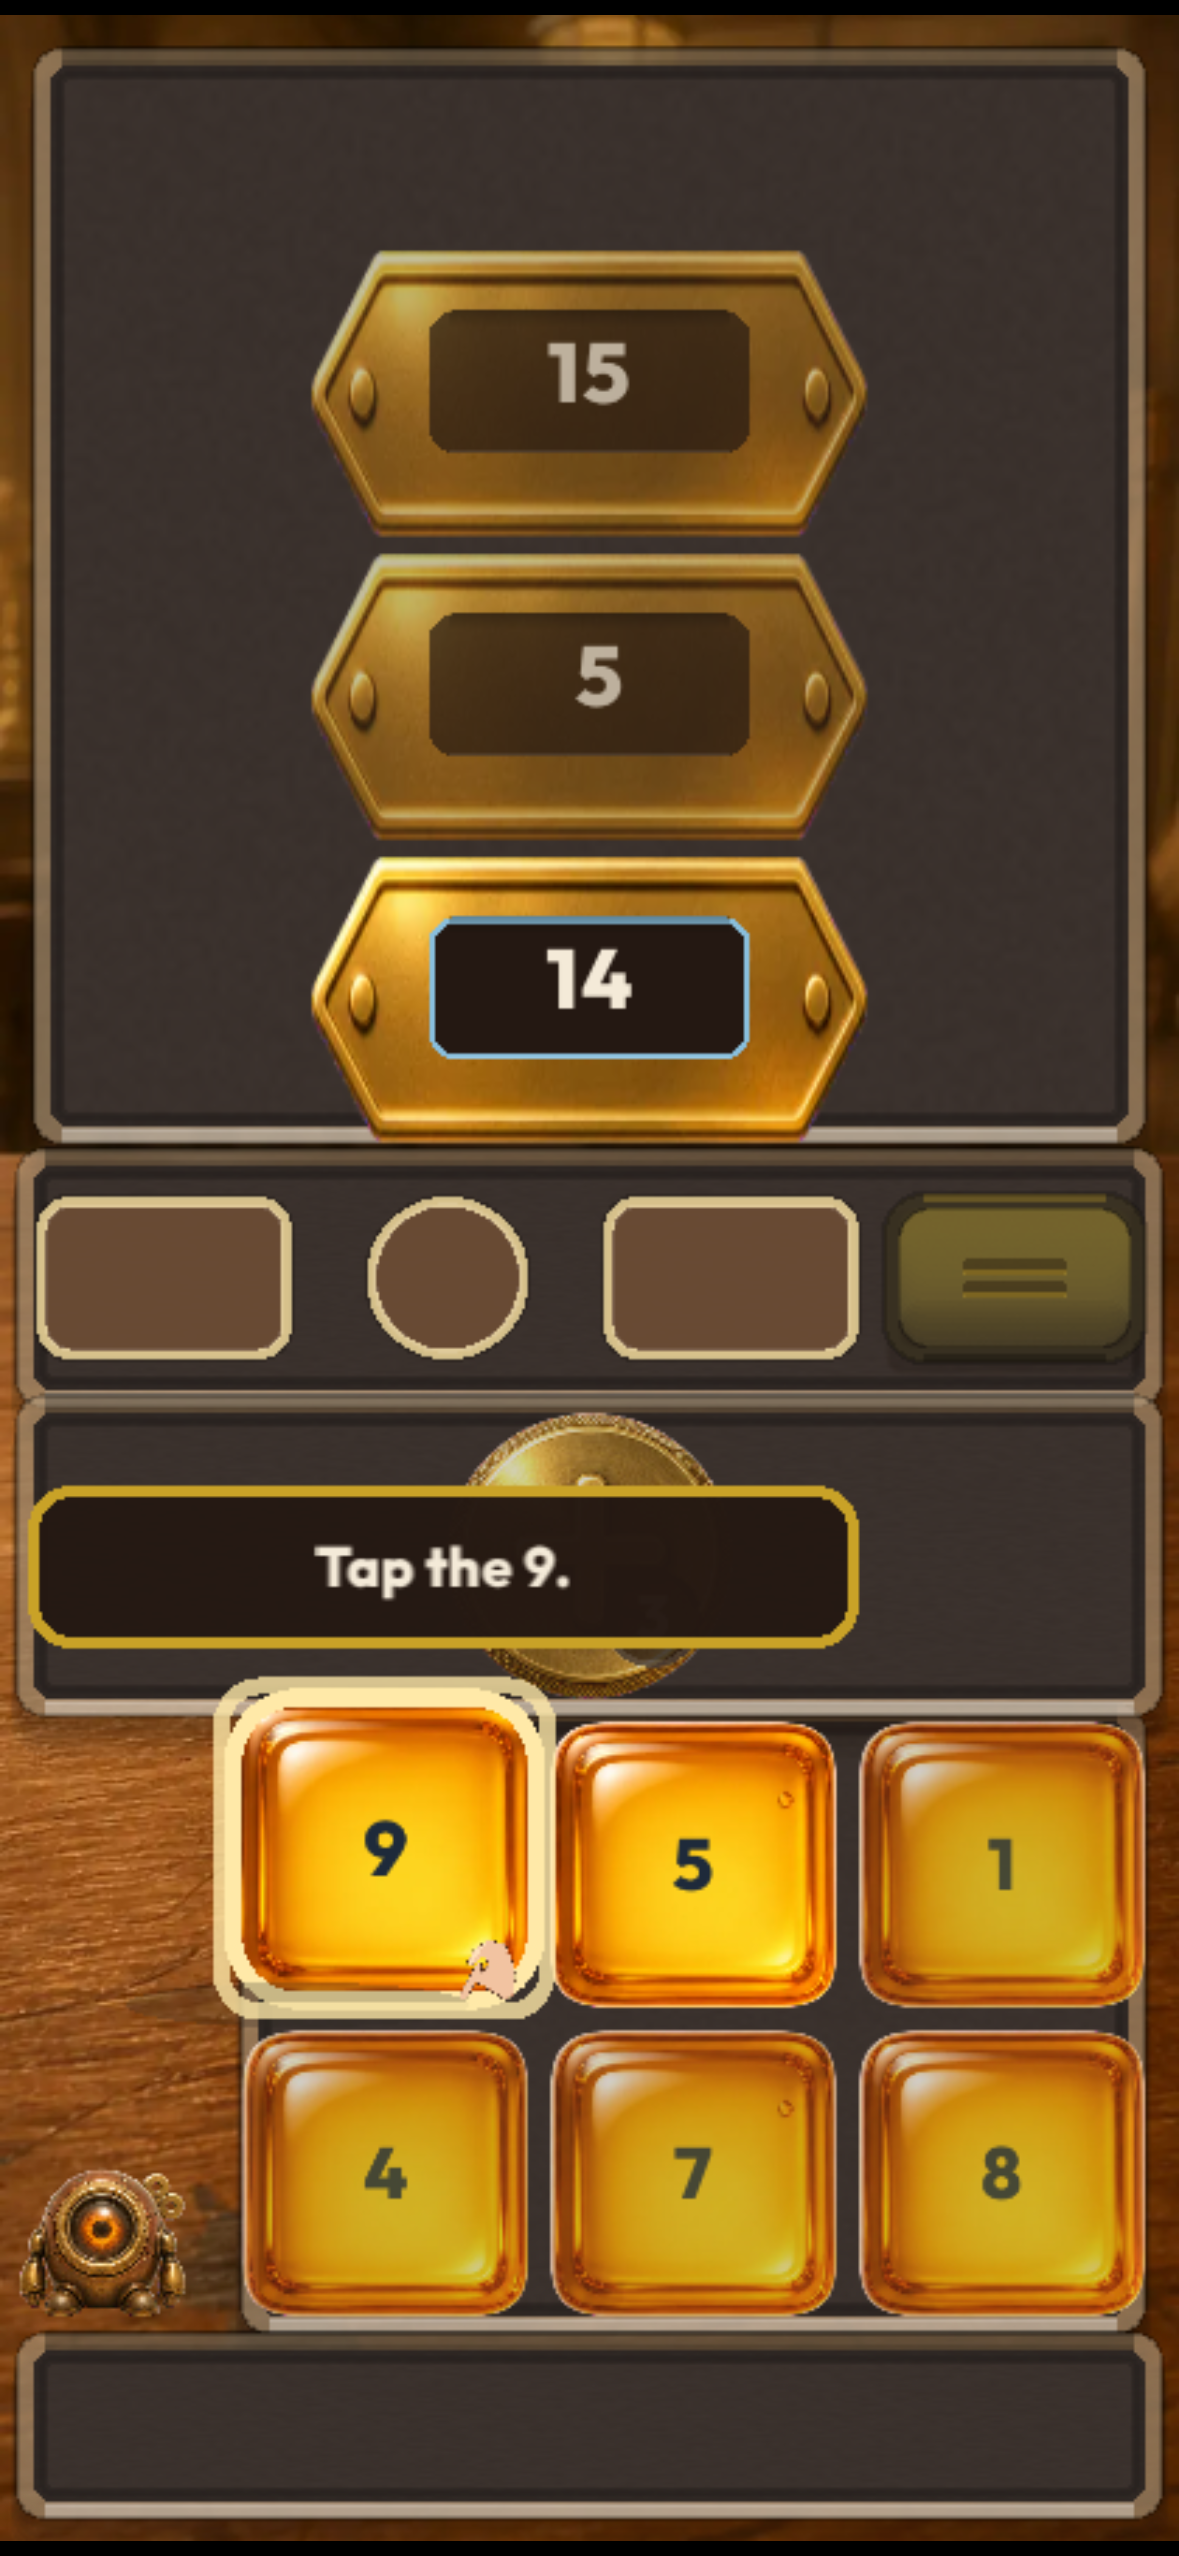
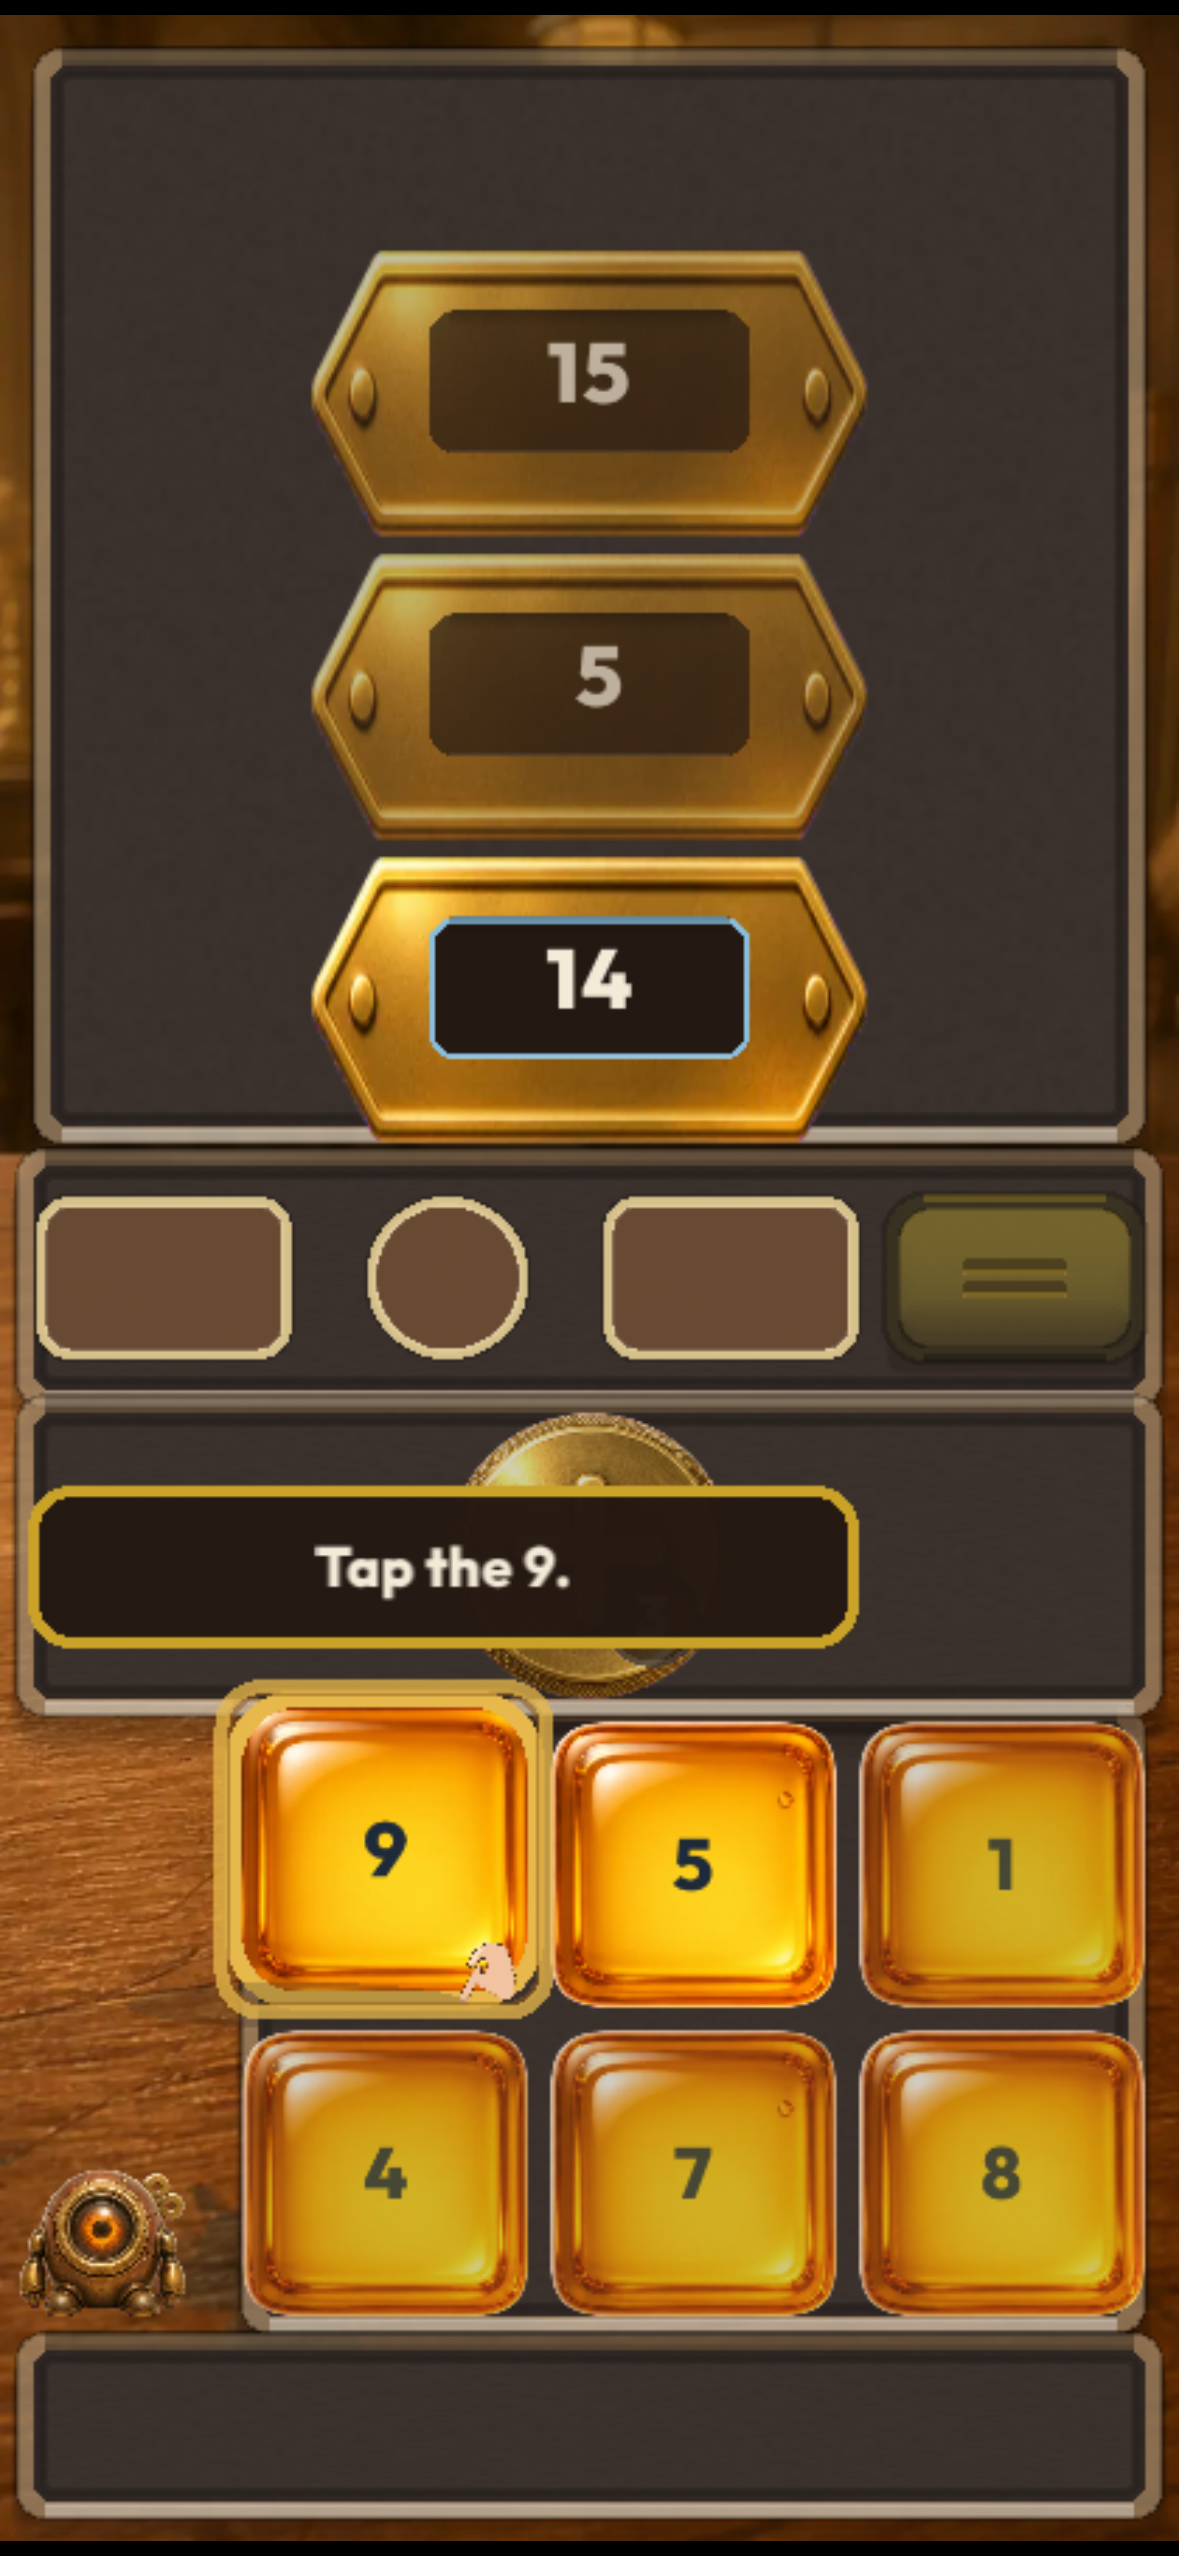
feat(ftue): cream teach pulse → Scout brass tokens
Swap exact-action rings to brassPulse #E7B84B (hot/deep crest).
Keep 1-06 look-queue equal; no solo brass on plate 4.

Changed region(s): [[0.1832, 0.6491, 0.4885, 0.8036]]

diff --git a/src/renderer/renderer.ts b/src/renderer/renderer.ts
@@ -1444,9 +1444,12 @@ export class Renderer {
     shadow.zIndex = BOARD_BANDS.status + 19;
     this.root.addChild(this.entry(shadow, BOARD_BANDS.status));
 
+    const pulseColor = cue.crest > 0.72 ? PALETTE.brassPulseHot : PALETTE.brassPulse;
     const ring = new Graphics()
+      .roundRect(rect.x - 5, rect.y - cue.lift - 5, rect.width + 10, rect.height + 10, 14)
+      .stroke({ width: 3, color: PALETTE.brassPulseDeep, alpha: 0.55 * ringAlphaScale })
       .roundRect(rect.x - 7, rect.y - cue.lift - 7, rect.width + 14, rect.height + 14, 14)
-      .stroke({ width: 6, color: PALETTE.brassLit, alpha: cue.ringAlpha * ringAlphaScale });
+      .stroke({ width: 5, color: pulseColor, alpha: cue.ringAlpha * ringAlphaScale });
     ring.zIndex = BOARD_BANDS.status + 20;
     this.root.addChild(this.entry(ring, BOARD_BANDS.status));
 
@@ -1518,7 +1521,7 @@ export class Renderer {
         if (alpha <= 0.05) continue;
         const ring = new Graphics()
           .roundRect(plate.x - 5, plate.y - 5, plate.width + 10, plate.height + 10, 12)
-          .stroke({ width: 4, color: PALETTE.brassLit, alpha });
+          .stroke({ width: 4, color: PALETTE.brassPulse, alpha });
         ring.zIndex = BOARD_BANDS.status + 20;
         ring.eventMode = "none";
         this.root.addChild(this.entry(ring, BOARD_BANDS.status));
@@ -1835,7 +1838,7 @@ export class Renderer {
         text: PALETTE.tokenInk,
         bevel: lit ? 1 : DIM.bevel,
         elevation: taught ? 2.5 : lit ? 1 : DIM.elevation,
-        outline: taught || s.transformOp === op ? PALETTE.brassLit : undefined,
+        outline: taught ? PALETTE.brassPulse : s.transformOp === op ? PALETTE.brassLit : undefined,
         outlineWidth: taught ? 6 : undefined,
         /*
          * GDD §7.6: the count appears with counted operators at 3-3, and NEVER
@@ -1968,7 +1971,7 @@ export class Renderer {
         elevation: dimmed ? DIM.elevation : taught ? 2.5 : 1 + rise * 1.6,
         outline:
           taught || transformable || pulsed.has(tile.id) || hinted.has(tile.id)
-            ? taught ? PALETTE.brassLit : PALETTE.highlight
+            ? taught ? PALETTE.brassPulse : PALETTE.highlight
             : undefined,
         outlineWidth: taught ? 6 : undefined,
       }, "idle", tile.id);

diff --git a/src/renderer/teach-cue.ts b/src/renderer/teach-cue.ts
@@ -7,6 +7,7 @@ export interface TeachCueSample {
   readonly lift: number;
   readonly scale: number;
   readonly ringAlpha: number;
+  readonly crest: number;
   readonly shadowAlpha: number;
   readonly handX: number;
   readonly handY: number;
@@ -32,6 +33,7 @@ export function teachCueSample(target: Rect, elapsedMs: number, surfaceWidth = 4
     lift: 5 + breath * 2,
     scale: 1.055 + breath * 0.015,
     ringAlpha: 0.72 + breath * 0.28,
+    crest: breath,
     shadowAlpha: 0.24 + breath * 0.08,
     handX: target.x + target.width * 0.82,
     handY: target.y + target.height * 0.98 - breath * 5,

diff --git a/src/renderer/layout.ts b/src/renderer/layout.ts
@@ -110,6 +110,10 @@ export const PALETTE = {
   brass: 0xc9a227,
   brassDeep: 0x8a6d1f,
   brassLit: 0xffe9a8,
+  /** Scout-locked FTUE teach pulse (cream/white rings replaced). */
+  brassPulse: 0xe7b84b,
+  brassPulseHot: 0xffe09a,
+  brassPulseDeep: 0x8a5a20,
   /** Quieter, aged brass for secondary controls: same metal, lower value. */
   brassQuiet: 0x765c28,
   brassQuietLit: 0xa88a4c,
